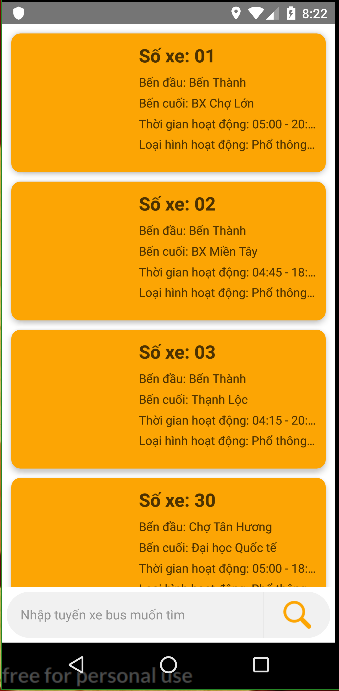
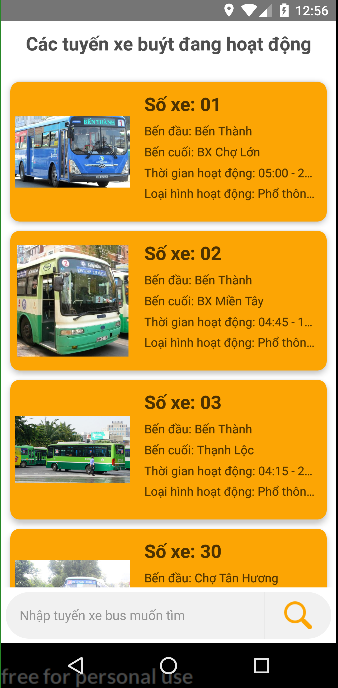
add some screenshot image and update readme file

diff --git a/README.md b/README.md
@@ -6,8 +6,8 @@
 
 1. Chức năng đăng nhập
 2. Chức năng đăng ký
-3. Chức năng xem các trạm xe bus, các tuyến xe bus qua các trạm đó và thông tin chi tiết của chúng
-4. Xem danh sách các tuyến xe bus hiện đang hoạt động và chi tiết
+3. Chức năng và tìm kiếm xem các trạm xe bus, các tuyến xe bus qua các trạm đó và thông tin chi tiết của chúng
+4. Xem và tìm kiếm danh sách các tuyến xe bus hiện đang hoạt động và chi tiết
 5. Thêm thông tin trạm xe bus và thông tin các tuyến xe
 
 ## Nội dung
@@ -31,16 +31,30 @@
 * Xem thông tin chi tiết tuyến xe bus đó
 
 <p align="center">
-    <img src="screenshots/marker1.png" height = "480" width="270">   <img src="screenshots/marker1.png" height = "480" width="270">   <img src="screenshots/marker3.png" height = "480" width="270">
+    <img src="screenshots/marker1.png" height = "480" width="270">   <img src="screenshots/marker2.png" height = "480" width="270">   <img src="screenshots/marker3.png" height = "480" width="270">
+</p>
+
+<p align="center">
+    <img src="screenshots/marker4.png" height = "480" width="270">   <img src="screenshots/marker5.png" height = "480" width="270">   <img src="screenshots/marker6.png" height = "480" width="270">
+</p>
+
+<p align="left">
+    <img src="screenshots/marker7.png" height = "480" width="270">
 </p>
 
 ### Danh sách các tuyến xe bus đang hoạt động
 
 * Xem danh sách các tuyến xe bus đang hoạt động trên địa bàn thành phố Hồ Chí Minh
-* Xem chi tiết thông tin về các tuyến xe bus ấy
+* Xem chi tiết thông tin về các tuyến xe bus ấy (một số hình ảnh minh họa, thông tin chi tiết, tuyến đường đi của chúng trên bảng đồ)
+* Tìm kiếm tuyến xe bus bạn muốn xem
 
 <p align="center">
-    <img src="screenshots/list1.png" height = "480" width="270">   <img src="screenshots/list2.png" height = "480" width="270">
+    <img src="screenshots/list1.png" height = "480" width="270">   <img src="screenshots/list2.png" height = "480" width="270"> 
+    <img src="screenshots/list3.png" height = "480" width="270">
+</p>
+
+<p align="center">
+    <img src="screenshots/list4.png" height = "480" width="270">   <img src="screenshots/list5.png" height = "480" width="270"> 
 </p>
 
 ### Thêm thông tin
@@ -65,7 +79,9 @@
 
 * react-native-maps - https://github.com/react-native-community/react-native-maps
 
-* react-native-google-places-autocomplete - https://github.com/FaridSafi/react-native-google-places-autocomplete
+* redux - https://redux.js.org/
+
+* react-redux - https://github.com/reduxjs/react-redux
 
 
 ## Nhóm thực hiện
